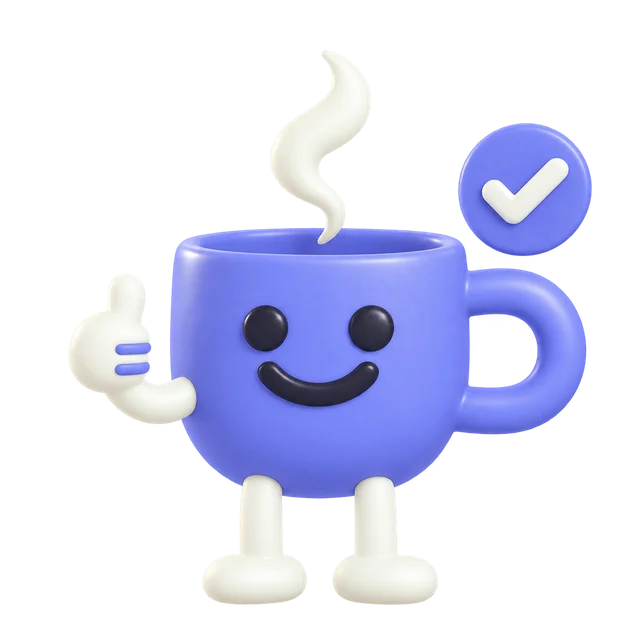
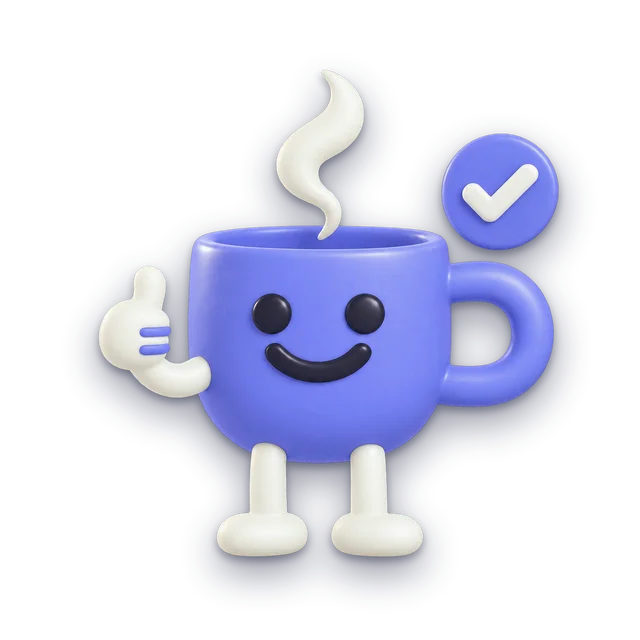
Add a baked soft shadow to the 3D mascot
Each pose now has a two-layer navy drop shadow (wide ambient plus a
tight contact shadow) so the cream limbs stand out on the light
background. Baked into the art because React Native shadow styles are
rectangular on Android and web. It stays quiet on dark.

The art is scaled to leave room for the shadow, so display sizes are
raised about 10%. Assets are about 55 KB each (669 KB total).

Claude-Session: https://claude.ai/code/session_01GMfNPf7uKjEhZBBMNvxprC

Changed region(s): [[0.0938, 0.1562, 0.9375, 0.9688], [0.5, 0.0938, 0.5312, 0.1875]]

diff --git a/app/checkout.tsx b/app/checkout.tsx
@@ -87,7 +87,7 @@ export default function CheckoutScreen() {
 
       {qr ? (
         <>
-          <Mascot pose="pleaseWait" size={132} label="Muggo waiting for your payment" />
+          <Mascot pose="pleaseWait" size={148} label="Muggo waiting for your payment" />
         <View style={[styles.card, { backgroundColor: c.surface, borderColor: c.line }]}>
           <Text style={{ color: c.fg }}>Scan this QR in your Bakong or bank app.</Text>
           <Text selectable style={{ color: c.muted, fontSize: 12 }}>{qr}</Text>
@@ -108,7 +108,7 @@ export default function CheckoutScreen() {
         <View style={styles.errorBox}>
           <Mascot
             pose={offline ? 'connectionLost' : 'sorry'}
-            size={132}
+            size={148}
             label={offline ? 'Muggo with no connection' : 'Muggo looking sorry'}
           />
           <Text style={{ color: c.accent, textAlign: 'center' }}>{status}</Text>

diff --git a/app/(tabs)/deals.tsx b/app/(tabs)/deals.tsx
@@ -17,7 +17,7 @@ export default function DealsScreen() {
           <Text style={[styles.title, { color: c.fg }]}>Deals</Text>
           <Text style={{ color: c.muted, fontSize: 13 }}>Examples. New deals appear here.</Text>
         </View>
-        <Mascot pose="specialOffer" size={112} label="Muggo holding a discount tag" />
+        <Mascot pose="specialOffer" size={124} label="Muggo holding a discount tag" />
       </View>
       <View style={[styles.card, { backgroundColor: c.surface, borderColor: c.line }]}>
         {DEALS.map((d, i) => (

diff --git a/app/(tabs)/order.tsx b/app/(tabs)/order.tsx
@@ -19,7 +19,7 @@ export default function OrderScreen() {
       <ScrollView contentContainerStyle={styles.wrap}>
         {count === 0 ? (
           <View style={styles.empty}>
-            <Mascot pose="orderAhead" size={112} label="Muggo holding an order list" />
+            <Mascot pose="orderAhead" size={124} label="Muggo holding an order list" />
             <Text style={{ color: c.muted, flex: 1 }}>Pick a time, tap +, then pay. We start when you do.</Text>
           </View>
         ) : null}

diff --git a/app/auth/index.tsx b/app/auth/index.tsx
@@ -50,7 +50,7 @@ export default function AuthScreen() {
   return (
     <ScrollView style={{ backgroundColor: c.bg }} contentContainerStyle={styles.wrap}>
       <Logo height={40} />
-      <Mascot pose="hello" size={132} label="Muggo waving hello" />
+      <Mascot pose="hello" size={148} label="Muggo waving hello" />
       <Text style={[styles.title, { color: c.fg }]}>Sign up or sign in</Text>
       <Text style={{ color: c.muted }}>Enter your phone number. We send a code to confirm it.</Text>
 

diff --git a/scripts/build-mascot3d.py b/scripts/build-mascot3d.py
@@ -1,26 +1,59 @@
 """Build the app's Muggo 3D assets from the supplied PNGs.
 
 Usage: python3 scripts/build-mascot3d.py <dir-with-muggo-3d-*.png>
-Writes transparent 640 px WebP files to assets/mascot3d/ (about 40 KB each, down from ~850 KB).
+Writes transparent 640 px WebP files to assets/mascot3d/ (about 45 KB each, down from ~850 KB).
+
+Each pose gets a soft navy drop shadow baked in so the cream limbs stand out on the light
+background: a wide ambient shadow for lift and a tight contact shadow for edge definition.
+The art is scaled to leave room for the shadow, and it stays subtle on dark.
 """
 import os
 import sys
-from PIL import Image
+from PIL import Image, ImageChops, ImageFilter
 
 SIZE = 640
 QUALITY = 85
+SCALE = 0.88          # art is scaled down to leave room for the shadow
+LIFT = -26            # shift the art up so the shadow has room below (px at source size)
+NAVY = (21, 26, 54)   # #151A36, the brand navy
+
+# (offset y, blur radius, strength) at source size (1254 px)
+AMBIENT = (32, 36, 0.48)
+CONTACT = (9, 8, 0.38)
+
+
+def shadow(alpha, dy, blur, strength):
+    a = ImageChops.offset(alpha, 0, dy).filter(ImageFilter.GaussianBlur(blur))
+    a = a.point(lambda v: int(v * strength))
+    layer = Image.new('RGBA', alpha.size, NAVY + (0,))
+    layer.putalpha(a)
+    return layer
+
+
+def with_shadow(im):
+    w, h = im.size
+    art = im.resize((int(w * SCALE), int(h * SCALE)), Image.LANCZOS)
+    canvas = Image.new('RGBA', im.size, (0, 0, 0, 0))
+    canvas.paste(art, ((w - art.width) // 2, (h - art.height) // 2 + LIFT), art)
+    alpha = canvas.getchannel('A')
+    out = Image.new('RGBA', im.size, (0, 0, 0, 0))
+    out = Image.alpha_composite(out, shadow(alpha, *AMBIENT))
+    out = Image.alpha_composite(out, shadow(alpha, *CONTACT))
+    return Image.alpha_composite(out, canvas)
+
 
 src = sys.argv[1]
-out = os.path.join(os.path.dirname(__file__), '..', 'assets', 'mascot3d')
-os.makedirs(out, exist_ok=True)
+out_dir = os.path.join(os.path.dirname(__file__), '..', 'assets', 'mascot3d')
+os.makedirs(out_dir, exist_ok=True)
 total = 0
 for name in sorted(os.listdir(src)):
     if not (name.startswith('muggo-3d-') and name.endswith('.png')):
         continue
     pose = name[len('muggo-3d-'):-len('.png')]
-    im = Image.open(os.path.join(src, name)).convert('RGBA').resize((SIZE, SIZE), Image.LANCZOS)
-    dest = os.path.join(out, pose + '.webp')
-    im.save(dest, 'WEBP', quality=QUALITY, method=4)
+    im = Image.open(os.path.join(src, name)).convert('RGBA')
+    final = with_shadow(im).resize((SIZE, SIZE), Image.LANCZOS)
+    dest = os.path.join(out_dir, pose + '.webp')
+    final.save(dest, 'WEBP', quality=QUALITY, method=4)
     total += os.path.getsize(dest)
     print(f'{pose}: {os.path.getsize(dest) // 1024} KB')
 print(f'total {total // 1024} KB')

diff --git a/README.md b/README.md
@@ -44,7 +44,7 @@ Not built yet (see the plan):
 
 ## Mascot
 
-Muggo is the 3D mascot, 12 poses as transparent WebP in `assets/mascot3d/` (about 40 KB each). Use `<Mascot pose="hello" />` from `components/Mascot.tsx`. The limbs are shaded, so it reads on light and dark with no backing panel.
+Muggo is the 3D mascot, 12 poses as transparent WebP in `assets/mascot3d/` (about 55 KB each, with a baked soft shadow). Use `<Mascot pose="hello" />` from `components/Mascot.tsx`. The limbs are shaded and each pose has a soft navy drop shadow baked in, so it stands out on light and stays quiet on dark.
 
 The supplied 1254 px PNGs (about 850 KB each) are not in the repo. To regenerate: `python3 scripts/build-mascot3d.py <dir with muggo-3d-*.png>` (needs Pillow).
 
